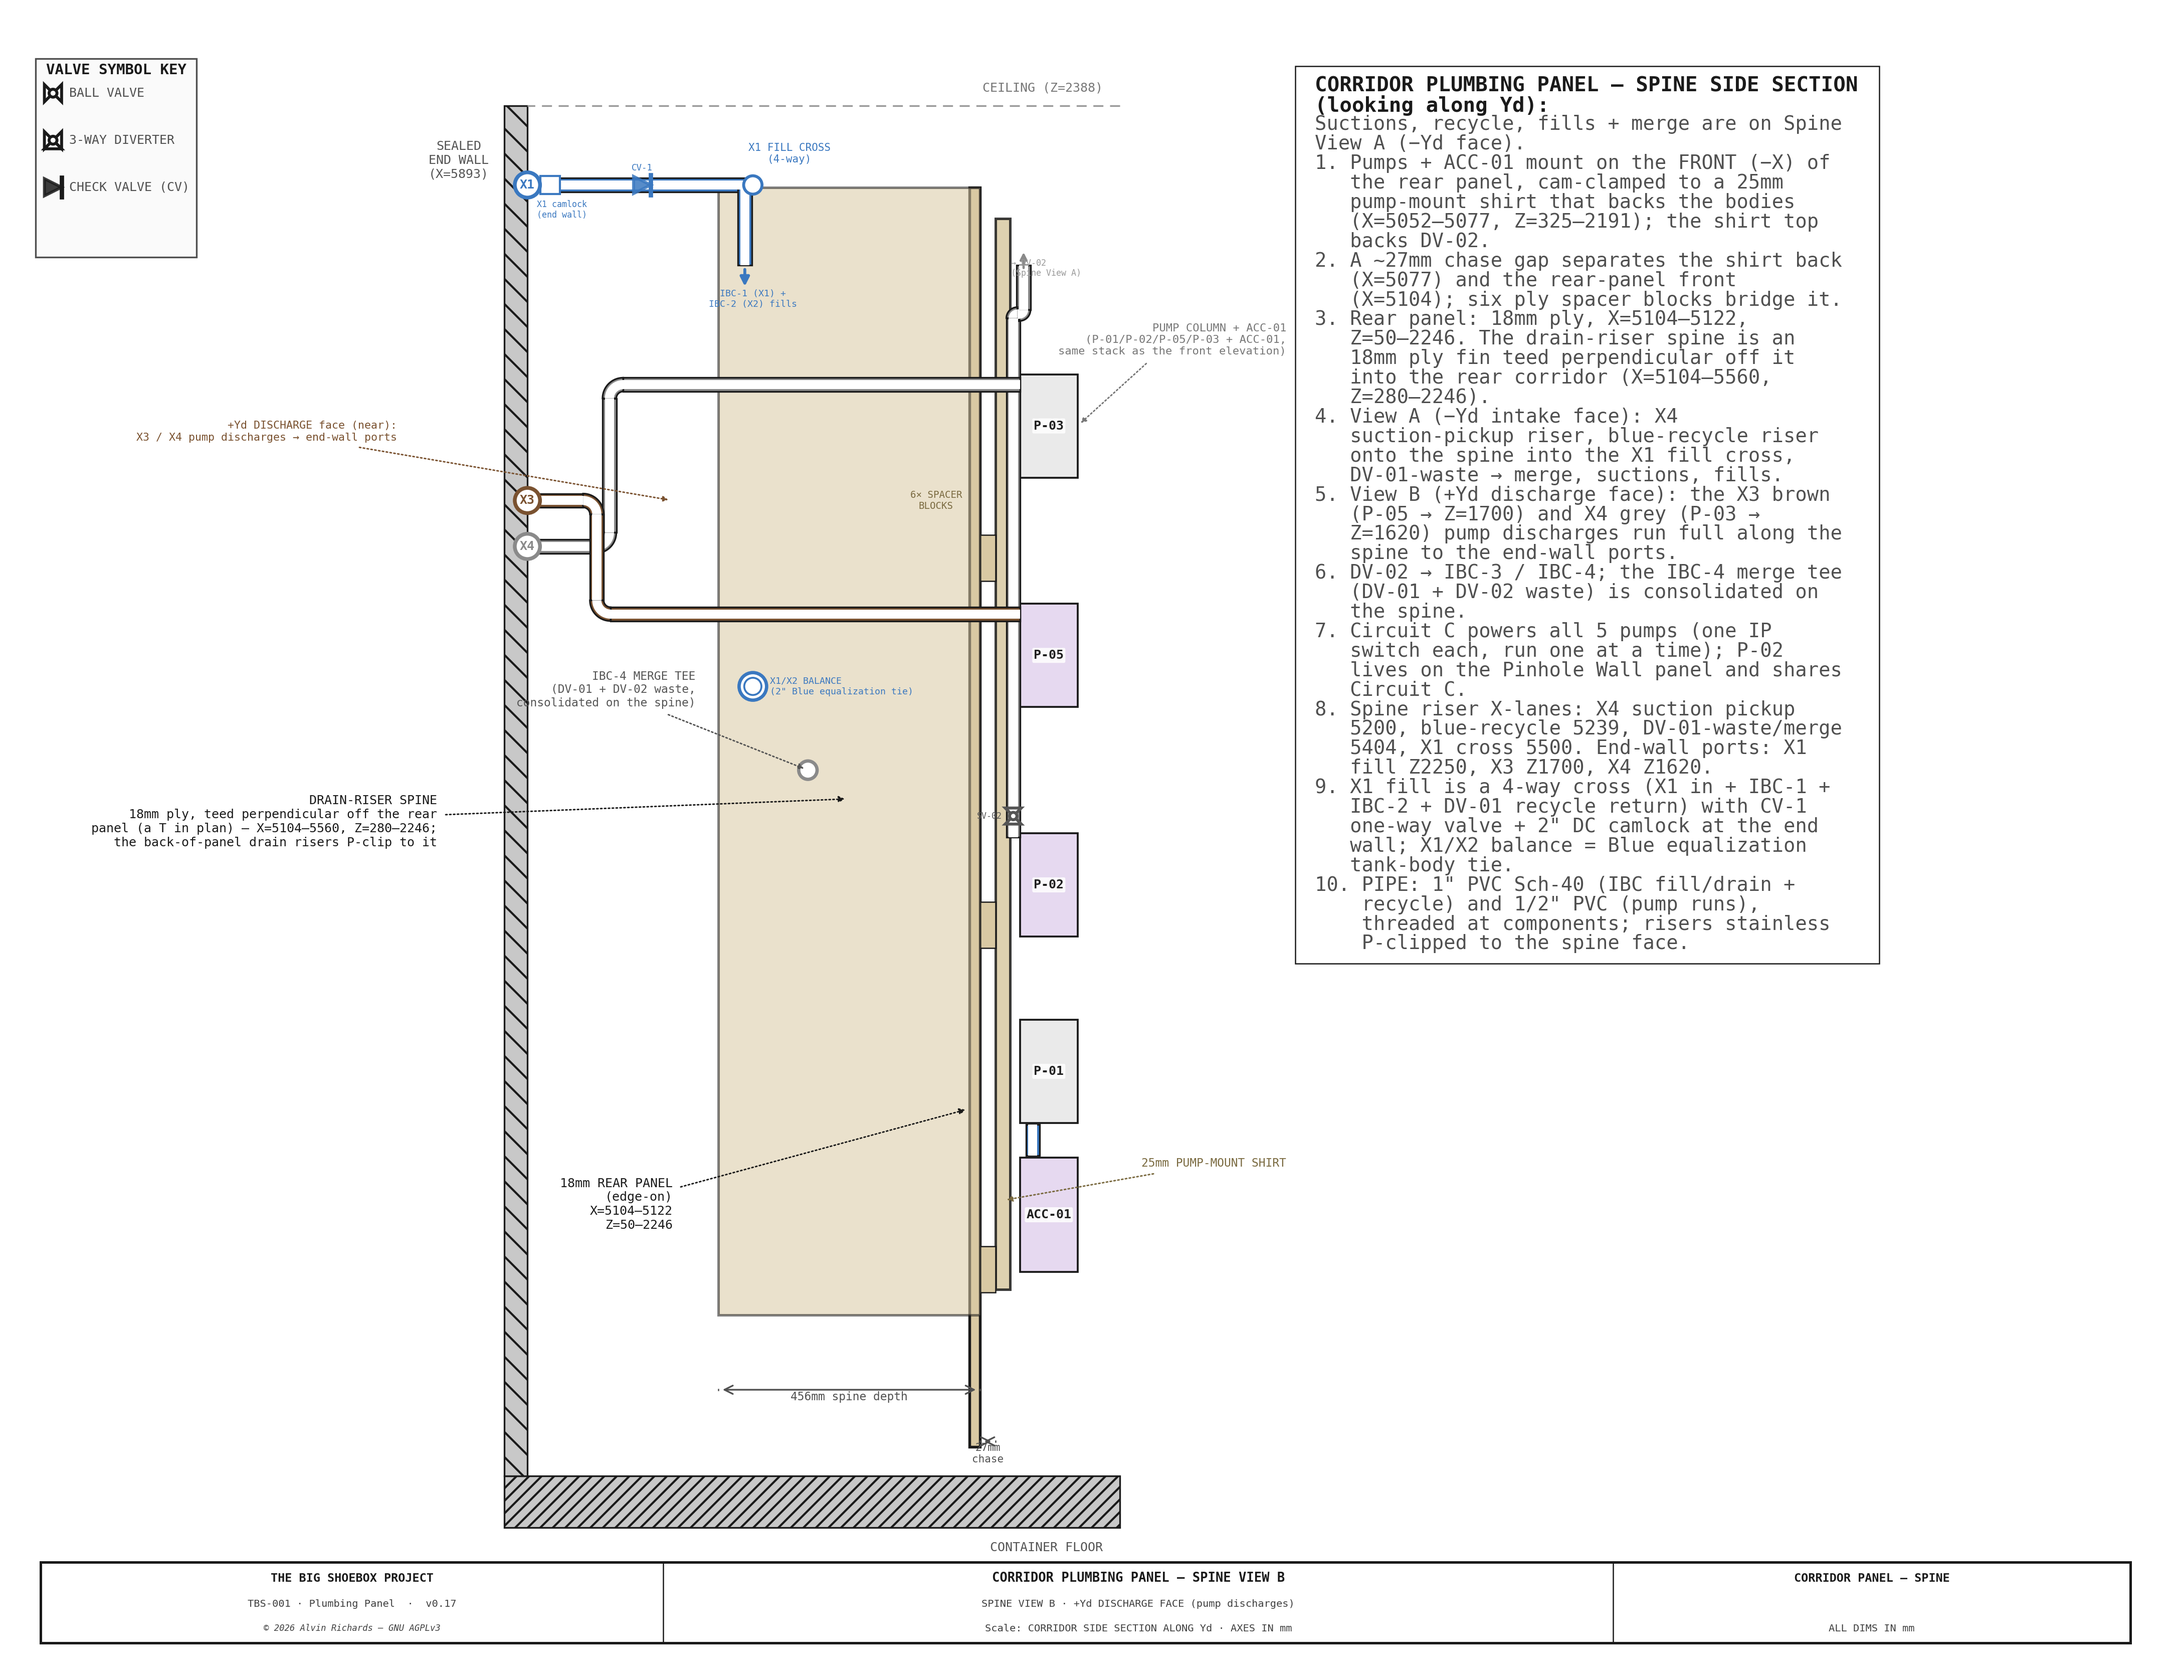
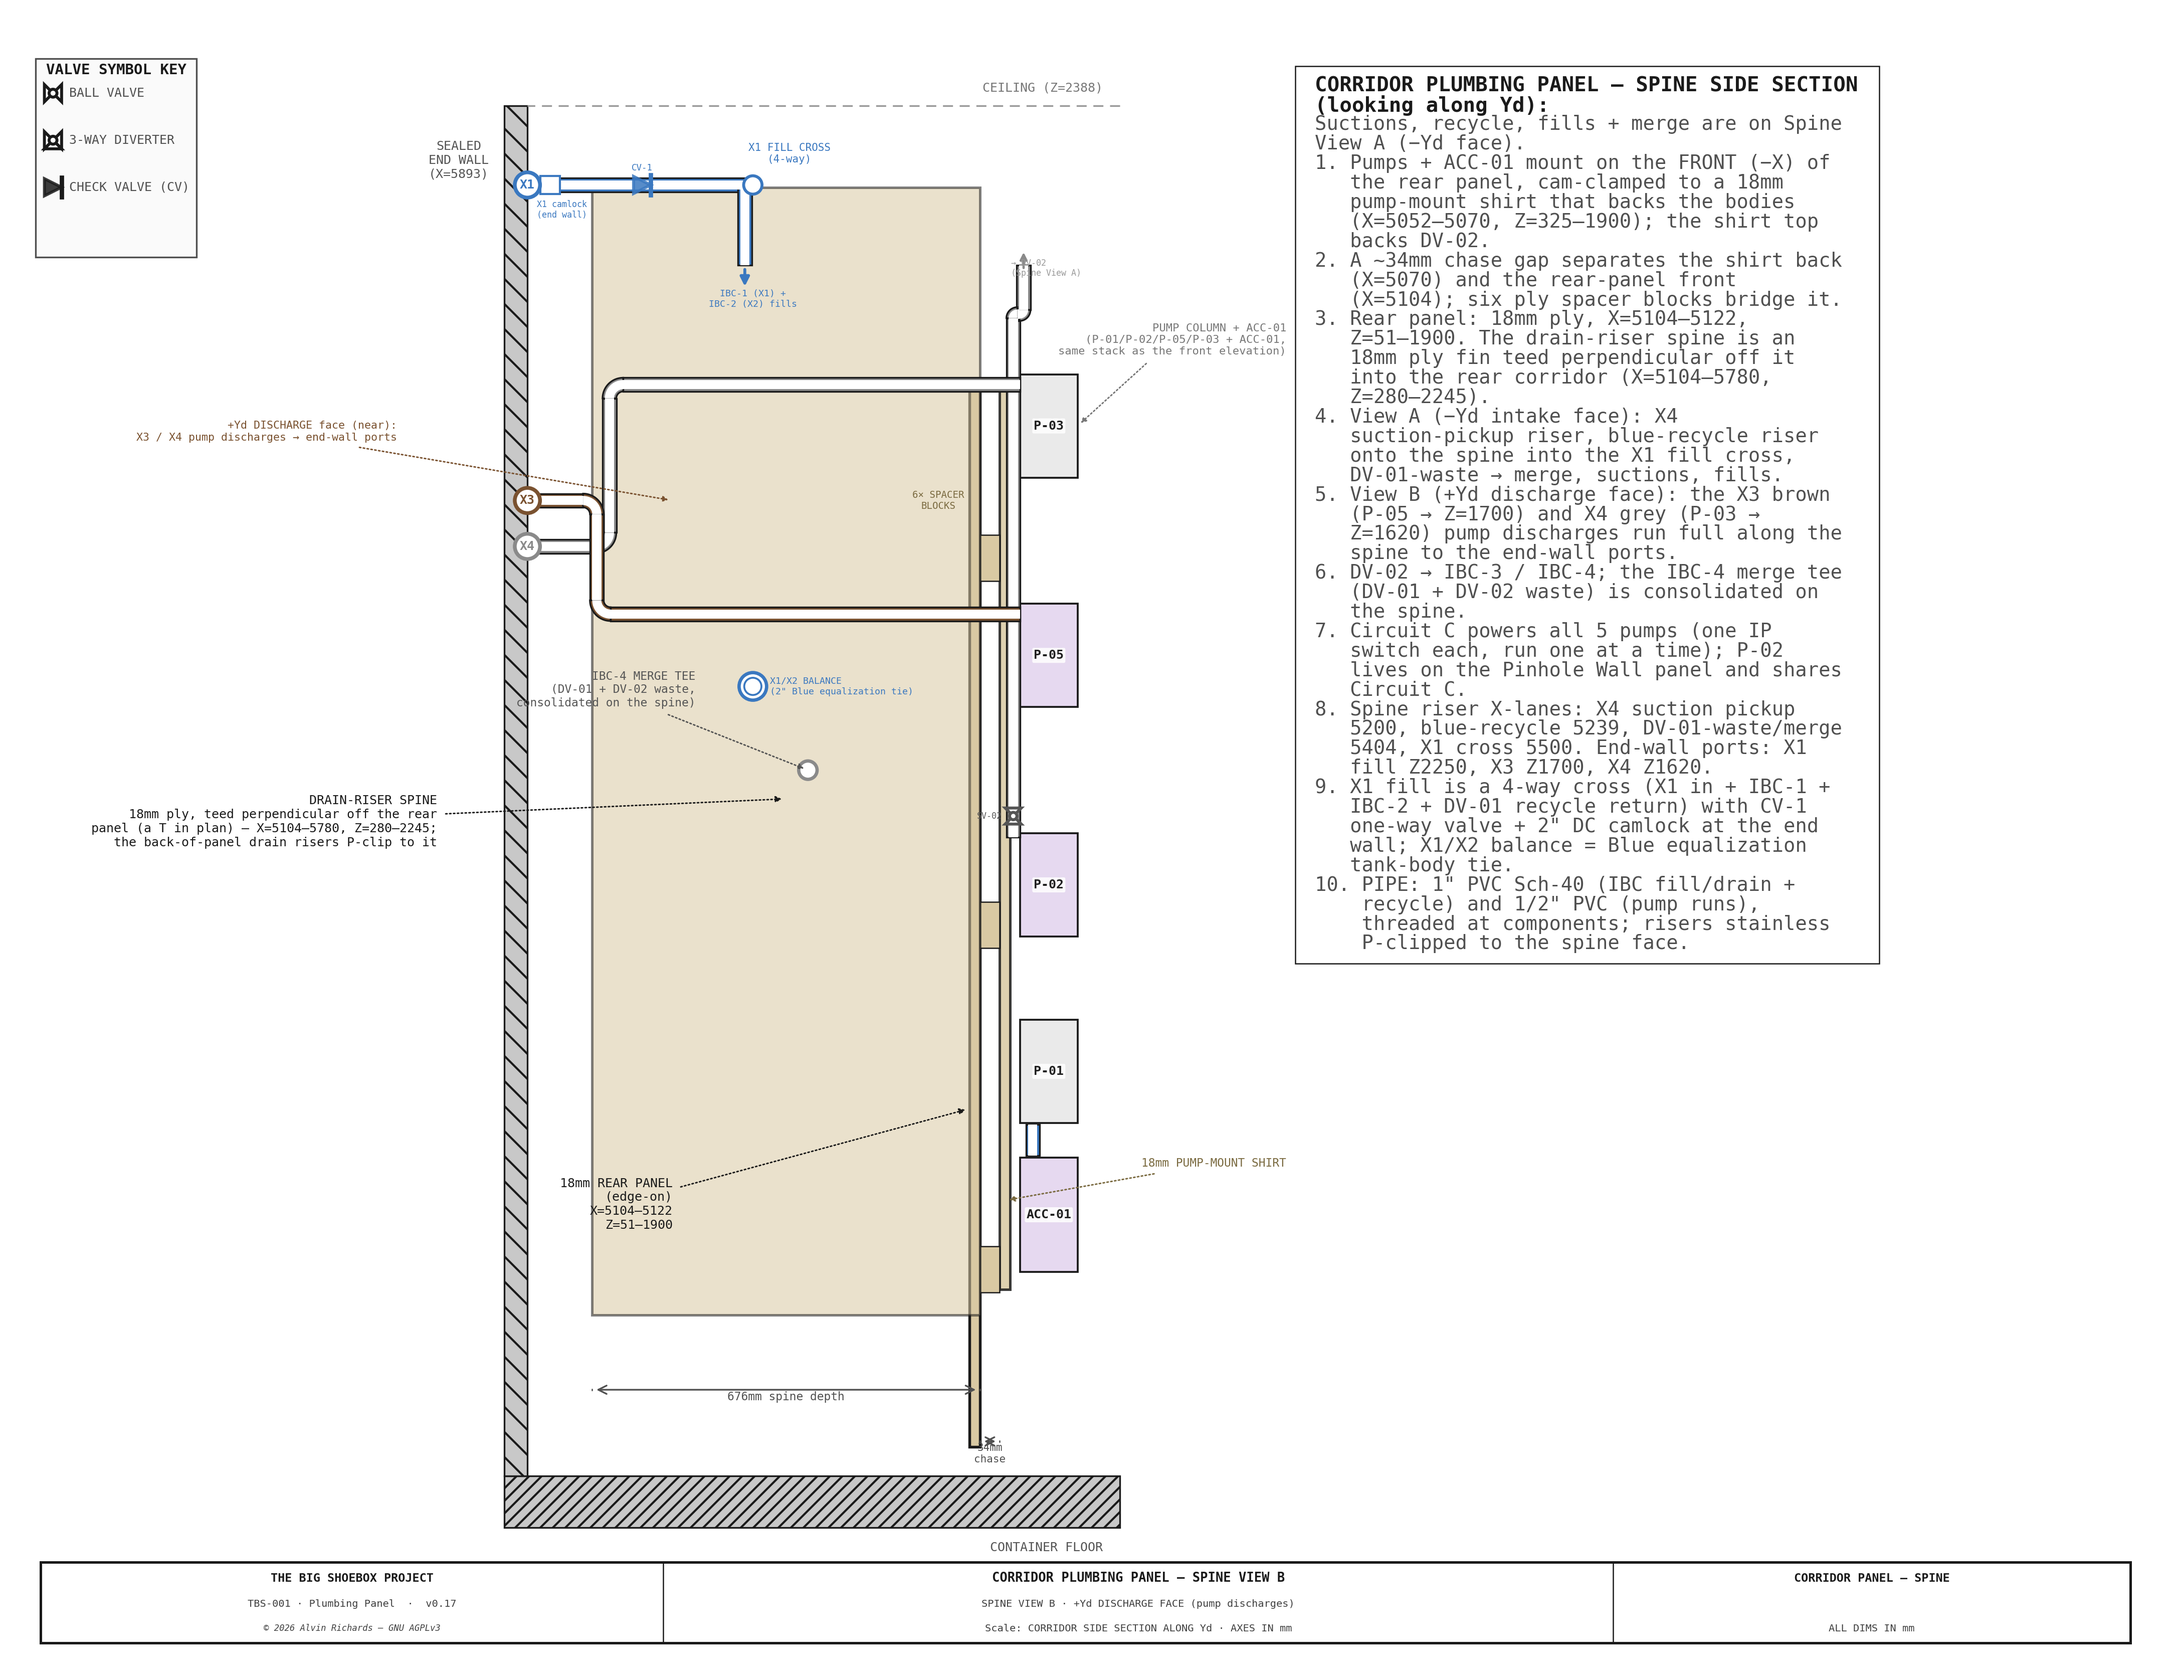
panel_layout: single-source the stale corridor-panel geometry from cwp (Track A)
Was fully hard-coded and stale vs the 3D: rear panel top 2246->1900 (~350mm),
shirt 25mm/Z2191 -> 18mm/Z1900, spine end 5560->5780, pump-run Z (480,900)/
(400,820) -> (480,1020)/(400,1020). Now derives PANX/SHIRTX/PAN_ZT/SPINE_*/
pump-run Z from generate_corridor_water_panel, and the notes/labels that restated
those dims are f-strings off the same values (no more prose drift). lint green;
2 advisory CROWDED remain (spine/sump labels) for a later tidy.

Changed region(s): [[0.2494, 0.0932, 0.3429, 0.8079], [0.4364, 0.1243, 0.4676, 0.2486], [0.4364, 0.2797, 0.4676, 0.3107]]

diff --git a/src/generators/generate_panel_layout.py b/src/generators/generate_panel_layout.py
@@ -43,6 +43,9 @@ import matplotlib.patches as mpatches
 from tbs_constants import C_OUT, C_DIM, C_STEEL, DIAGRAMS_DIR, PUMP_PIPE_OD, PUMP_PIPE_WALL, EQPANEL_X, EQPANEL_H, DIAGRAM_DPI, FONT, C_WALL
 from tbs_constants import BB_OD, PWP_FILTER_X1, PWP_FILTER_X2, PWP_FILTER_X3, PWP_FILTER_TOP_Z, PWP_FILTER_BOT_Z, PWP_FILTER_HEAD_Z, PWP_SV01_X, PWP_SV01_Z, PWP_SROW_Z0, PWP_SV02_Z, PWP_DV02_Z, PWP_ACC2_X, PWP_ACC2_Z0, PWP_PANEL_X0, PWP_PANEL_X1, PWP_PANEL_Z0
 from tbs_drawing import draw_dim_h, draw_dim_v, leader, draw_notes, draw_pipe_path as _tbs_pipe_path, valve_ball, valve_3way, valve_check
+import sys as _sys
+_sys.path.insert(0, os.path.join(os.path.dirname(__file__), "..", "models"))
+import generate_corridor_water_panel as cwp   # corridor-panel geometry — single source for the side-section (was hard-coded + stale)
 from tbs_title_block import title_block
 
 # ── Panel geometry ────────────────────────────────────────────────────────
@@ -300,7 +303,7 @@ def draw_corridor_panel():
     #    welded steel L-brackets, the risers P-clipped to it. NEAR wall = local Yd 0 (lower board
     #    Z480-900 + upper board Z1260-1950, backing BV-02/BV-06); FAR wall = local Yd PANEL_W (Z400-820).
     SB_T = 18
-    for xb, z0b, z1b in ((0, 480, 900), (0, 1260, 1950), (PANEL_W - SB_T, 400, 820)):
+    for xb, z0b, z1b in ((0, cwp.SB_NEAR_Z[0], cwp.SB_NEAR_Z[1]), (0, cwp.SB_NEAR_UP_Z[0], cwp.SB_NEAR_UP_Z[1]), (PANEL_W - SB_T, cwp.SB_FAR_Z[0], cwp.SB_FAR_Z[1])):
         rect(xb, z0b, SB_T, z1b - z0b, C_PLY, C_PLY_EC, lw=1.0, zorder=6, alpha=0.9)
     ax.text(sx(SB_T + 6), sz(1600), "NEAR SIDE\nSUPPORT BOARDS\n(edge-on, on\nwelded L-brackets)",
             ha="left", va="center", fontsize=3.6, color=C_PLY_EC, zorder=9, **FONT)
@@ -536,7 +539,7 @@ def draw_corridor_panel():
         "9. The tray-drain skid (P-04 · SV-02 · DV-02) is on the PINHOLE WALL panel, not here.",
         f"10. Max protrusion: {max_depth}mm. The filter train + tray-drain skid are on the PINHOLE WALL panel.",
         "11. PIPE: 1/2\" PVC Sch-40 pump runs (solvent-weld) + threaded transitions at components; braided flex hose"
-        " at each pump port. Pumps + ACC cam-clamp to a 25mm ply shirt; 4-bolt brackets.",
+        f" at each pump port. Pumps + ACC cam-clamp to a {cwp.EQT:.0f}mm ply shirt; 4-bolt brackets.",
         "12. Pump-base Z (AFF): ACC-01 355 · P-01 615 · P-02 940 · P-05 1340 · P-03 1740.",
     ]
     draw_notes(ax, notes, 575, 475, spacing=14,
@@ -954,14 +957,13 @@ C_BLUEB  = "#3A78C0"   # blue fill
 C_WALLB  = "#C8C8C8"
 
 # ── Geometry (matches generate_corridor_water_panel.py: BACK_X=5104 rear panel) ──
-PANX   = 5104                     # rear-panel front face (pumps hang -X off it)
-PANX1  = 5122                     # rear-panel rear face (18mm ply)
-SHIRTX0, SHIRTX1 = 5052, 5077     # 25mm pump-mount shirt (in FRONT of the panel)
-SHIRT_ZB, SHIRT_ZT = 325, 2191    # shirt Z extent (bottom shortened to 325 to clear the
-                                  # raised P-05 inlet elbow; top raised to back DV-02 at DV_Z+DVB)
-SPX1   = 5560                     # drain-riser spine rear (X5104–5560)
-SPINE_ZB, SPINE_ZT = 280, 2246    # spine Z extent
-PAN_ZB, PAN_ZT = 50, 2246         # rear-panel Z extent
+PANX   = cwp.BACK_X                        # rear-panel front face (pumps hang -X off it)
+PANX1  = cwp.BACK_X + cwp.EQT              # rear-panel rear face (18mm ply)
+SHIRTX0, SHIRTX1 = cwp.SHIRT_X, cwp.SHIRT_X + cwp.EQT   # 18mm pump-mount shirt (in FRONT of the panel)
+SHIRT_ZB, SHIRT_ZT = cwp.SHIRT_Z0, cwp.PANEL_TOP_Z      # shirt Z extent (bottom clears the raised P-05 elbow; top at the fan baffle)
+SPX1   = cwp.SPINE_X_END                   # drain-riser spine rear
+SPINE_ZB, SPINE_ZT = cwp.SPINE_Z0, cwp.TOP_Z - cwp.S    # spine Z extent
+PAN_ZB, PAN_ZT = cwp.S, cwp.PANEL_TOP_Z    # rear-panel Z extent (top = PANEL_TOP_Z 1900, was stale 2246)
 WALLX  = C_LEN                    # 5893 — sealed end wall
 # Back-of-panel riser X lanes (in the rear corridor, +X of the panel)
 RX4    = 5200                     # X4 waste riser X (3D)
@@ -1066,19 +1068,19 @@ def spine_view(side):
     # ── Rear panel (edge-on) ─────────────────────────────────────────────────
     _rect(PANX, PAN_ZB, PANX1 - PANX, PAN_ZT - PAN_ZB, C_PLYB, lw=1.3, z0=6)
     leader(axb, PANX1, 640, 5640, 520,
-           f"18mm REAR PANEL\n(edge-on)\nX={PANX}–{PANX1}\nZ={PAN_ZB}–{PAN_ZT}",
+           f"18mm REAR PANEL\n(edge-on)\nX={PANX:.0f}–{PANX1:.0f}\nZ={PAN_ZB:.0f}–{PAN_ZT:.0f}",
            color=C_OUT, fs=6, ha=_ha("left"), va="top", arrow_style="-|>", font=FB)
 
-    # ── 25mm pump-mount shirt (in FRONT of the rear panel, −X) ───────────────
+    # ── 18mm pump-mount shirt (in FRONT of the rear panel, −X) ───────────────
     _rect(SHIRTX0, SHIRT_ZB, SHIRTX1 - SHIRTX0, SHIRT_ZT - SHIRT_ZB,
           C_PLYB, lw=1.2, z0=6, alpha=0.85)
     leader(axb, (SHIRTX0 + SHIRTX1) / 2, 480, 4570, 545,
-           "25mm PUMP-MOUNT SHIRT",   # dims + cam-clamp detail live in Note 1
+           f"{SHIRTX1 - SHIRTX0:.0f}mm PUMP-MOUNT SHIRT",   # dims + cam-clamp detail live in Note 1
            color="#7A6A40", fs=5.5, ha=_ha("left"), va="center", arrow_style="-|>", font=FB)
-    # ~27mm chase gap (shirt back 5077 → panel front 5104) + 6 spacer blocks
+    # ~34mm chase gap (shirt back ≈5070 → panel front 5104) + 6 spacer blocks
     for bz in (320, 920, 1560):
         _rect(SHIRTX1, bz, PANX - SHIRTX1, 80, C_PLYB, ec=C_OUT, lw=0.6, z0=7)
-    draw_dim_h(axb, SHIRTX1, PANX, 60, f"{PANX - SHIRTX1}mm\nchase", offset=4,
+    draw_dim_h(axb, SHIRTX1, PANX, 60, f"{PANX - SHIRTX1:.0f}mm\nchase", offset=4,
                fs=5, above=False, font=FB)
     axb.text(SHIRTX1 + (PANX - SHIRTX1) / 2 + 90, 1700,
              "6× SPACER\nBLOCKS", fontsize=4.6, ha="center", va="center",
@@ -1105,7 +1107,7 @@ def spine_view(side):
           z0=8, alpha=0.55)
     leader(axb, (PANX + SPX1) / 2, 1180, 6050, 1140,
            f"DRAIN-RISER SPINE\n18mm ply, teed perpendicular off the rear\n"
-           f"panel (a T in plan) — X={PANX}–{SPX1}, Z={SPINE_ZB}–{SPINE_ZT};\n"
+           f"panel (a T in plan) — X={PANX:.0f}–{SPX1:.0f}, Z={SPINE_ZB:.0f}–{SPINE_ZT:.0f};\n"
            "the back-of-panel drain risers P-clip to it",
            color=C_OUT, fs=6, ha=_ha("left"), va="center", arrow_style="-|>", font=FB)
 
@@ -1336,7 +1338,7 @@ def spine_view(side):
                  fontweight="bold", color=col, zorder=15, **FB)
 
     # ── Dimensions ───────────────────────────────────────────────────────────
-    draw_dim_h(axb, PANX, SPX1, 150, f"{SPX1 - PANX}mm spine depth", offset=4,
+    draw_dim_h(axb, PANX, SPX1, 150, f"{SPX1 - PANX:.0f}mm spine depth", offset=4,
                fs=5.5, above=False, font=FB)
 
     # ── Notes (right margin) ─────────────────────────────────────────────────
@@ -1349,9 +1351,9 @@ def spine_view(side):
     draw_notes(axb, [
         "CORRIDOR PLUMBING PANEL — SPINE SIDE SECTION (looking along Yd):",
         cross_note,
-        "1. Pumps + ACC-01 mount on the FRONT (−X) of the rear panel, cam-clamped to a 25mm pump-mount shirt that backs the bodies (X=5052–5077, Z=325–2191); the shirt top backs DV-02.",
-        "2. A ~27mm chase gap separates the shirt back (X=5077) and the rear-panel front (X=5104); six ply spacer blocks bridge it.",
-        "3. Rear panel: 18mm ply, X=5104–5122, Z=50–2246. The drain-riser spine is an 18mm ply fin teed perpendicular off it into the rear corridor (X=5104–5560, Z=280–2246).",
+        f"1. Pumps + ACC-01 mount on the FRONT (−X) of the rear panel, cam-clamped to a {SHIRTX1 - SHIRTX0:.0f}mm pump-mount shirt that backs the bodies (X={SHIRTX0:.0f}–{SHIRTX1:.0f}, Z={SHIRT_ZB:.0f}–{SHIRT_ZT:.0f}); the shirt top backs DV-02.",
+        f"2. A ~{PANX - SHIRTX1:.0f}mm chase gap separates the shirt back (X={SHIRTX1:.0f}) and the rear-panel front (X={PANX:.0f}); six ply spacer blocks bridge it.",
+        f"3. Rear panel: 18mm ply, X={PANX:.0f}–{PANX1:.0f}, Z={PAN_ZB:.0f}–{PAN_ZT:.0f}. The drain-riser spine is an 18mm ply fin teed perpendicular off it into the rear corridor (X={PANX:.0f}–{SPX1:.0f}, Z={SPINE_ZB:.0f}–{SPINE_ZT:.0f}).",
         "4. View A (−Yd intake face): X4 suction-pickup riser, blue-recycle riser onto the spine into the X1 fill cross, DV-01-waste → merge, suctions, fills.",
         "5. View B (+Yd discharge face): the X3 brown (P-05 → Z=1700) and X4 grey (P-03 → Z=1620) pump discharges run full along the spine to the end-wall ports.",
         "6. DV-02 → IBC-3 / IBC-4; the IBC-4 merge tee (DV-01 + DV-02 waste) is consolidated on the spine.",
